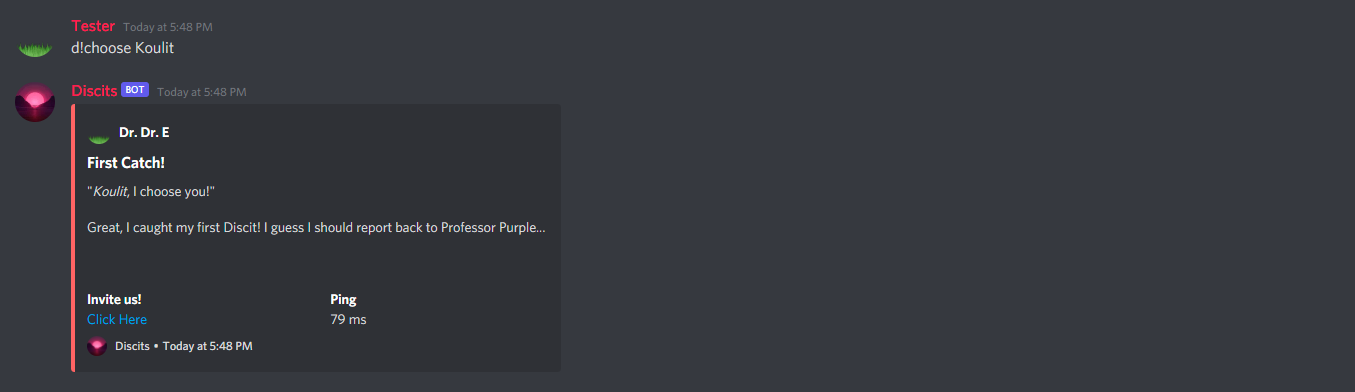
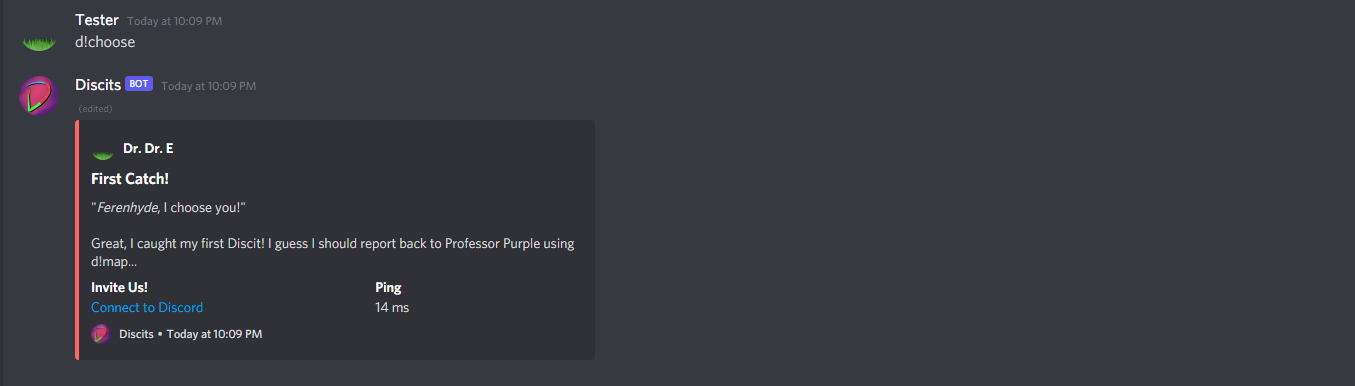
update choose more

Changed region(s): [[0.0, 0.1865, 0.4339, 0.9326], [0.0, 0.0311, 0.186, 0.1554], [0.248, 0.715, 0.31, 0.8394]]

diff --git a/commands/cmdscript.js b/commands/cmdscript.js
@@ -29,7 +29,7 @@ const commands = [
     new Command(
         'choose',
         'Choose a starter Discit between Koulit, Leafid, and Ferenhyde.',
-        '[name of chosen Discit]',
+        '',
         'Have an account, hasn\'t chosen a starter yet'
     ),
     new Command(
